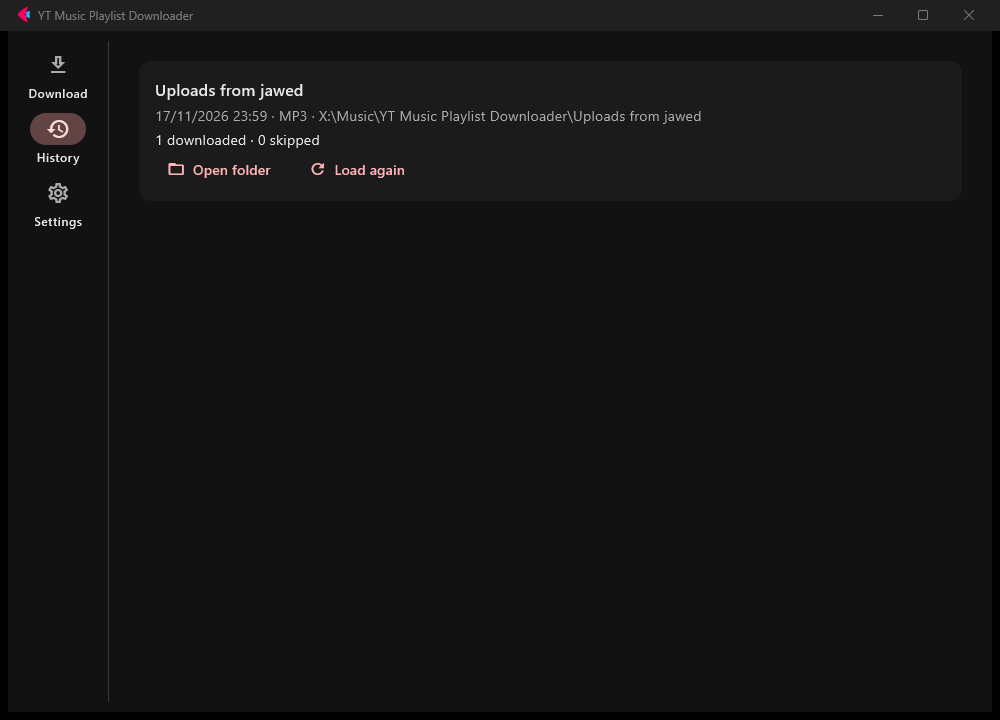
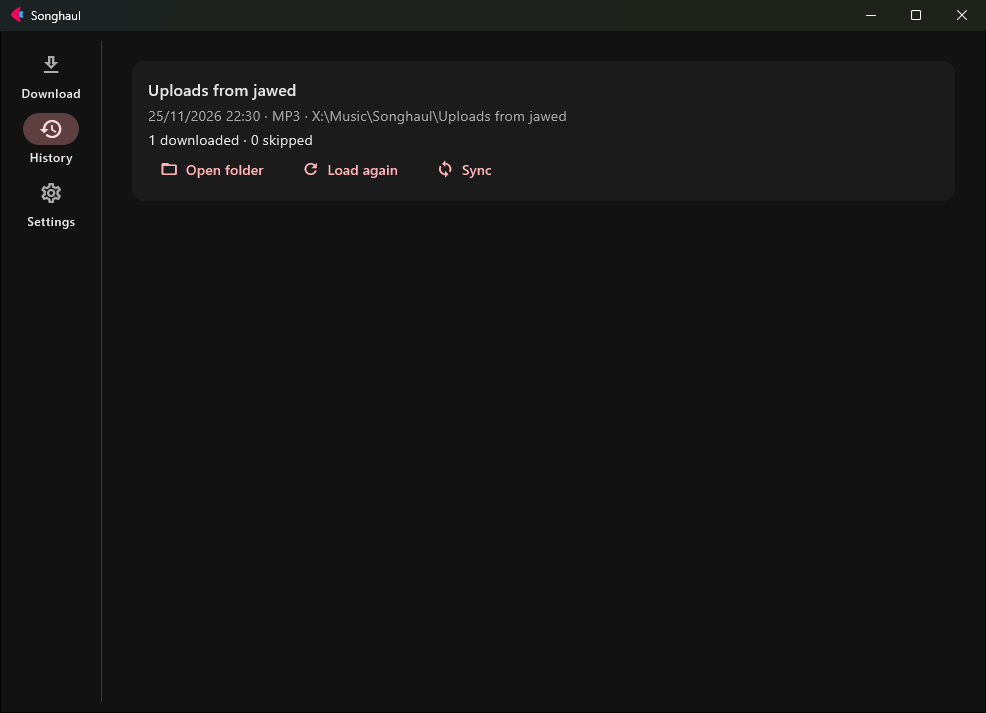
docs: redo the screenshots with the new name

diff --git a/docs/ROADMAP.md b/docs/ROADMAP.md
@@ -1,6 +1,6 @@
 # Roadmap: from YouTube to several platforms
 
-Status: **approved for phase 0** (25 November 2026). Phase 0A is in progress; phases 2 and 3 depend on
+Status: **phase 0A done** (25 November 2026), phase 0B next. Phases 2 and 3 depend on
 [decision D2](#decisions).
 
 Goal: start from a link to a song or a playlist on YouTube, SoundCloud or Spotify and get audio files with consistent
@@ -14,7 +14,7 @@ Spotify, searched on a supported source.
 
 | Phase | Result | Version |
 |---|---|---|
-| [0A. Rename](#phase-0a--rename) 🚧 | New name everywhere, existing updates and history safe | 0.6.0 |
+| [0A. Rename](#phase-0a--rename) ✅ | New name everywhere, existing updates and history safe | 0.6.0 |
 | [0B. Common interface](#phase-0b--common-interface) | Separate sources, YouTube exactly as before | 0.6.1 |
 | [1. SoundCloud](#phase-1--soundcloud) | Tracks and sets, with titles; previews and DRM recognised | 0.7.0 |
 | [2. Spotify, tracks](#phase-2--spotify-single-tracks) | A Spotify link becomes the right song, or an honest "not found" | 0.8.0 |
@@ -310,7 +310,7 @@ downloader), anything starting with "Spot".
 | README, README.it | Title, URLs, file names, folders, imports, layout |
 | `ROADMAP.md` (root) | A note at the top: it's history |
 | `DEVLOG.md` | Not rewritten: a new entry |
-| `docs/screenshots/` | 10 PNGs show the old name: to be redone |
+| `docs/screenshots/` | 10 PNGs, redone with the new name |
 
 **Kept on purpose**
 

diff --git a/DEVLOG.md b/DEVLOG.md
@@ -11,7 +11,13 @@
   files once, with `settings.json` last as the mark. Without the mark, a `cookies.txt` removed in Settings would come
   back at the next start. `paths.py` doesn't import Flet, which the test job on GitHub doesn't install.
 - Checked on the emulator: the new APK over 0.3.0 (same debug key) kept one app, its history and the old Music folder;
-  Sync said there was nothing new.
+  Sync said there was nothing new. On Windows, with data laid out as 0.5.0 leaves it, Sync said the same.
+- A manual run of `release.yml` built all four platforms; its APK has the id and certificate of the published 0.5.0 and
+  a higher versionCode. The update check of 0.5.0 follows GitHub's redirect from the old repository name.
+- After renaming the project, the local CMake cache in `build/flutter/build/windows` still names the old target and the
+  Windows build fails: delete that folder once. GitHub builds from scratch and isn't affected.
+- yt-dlp 2026.10.26 can't solve YouTube's current JavaScript challenge (it warns and goes on with the formats left);
+  2026.11.23 can, so the minimum goes up with this release.
 - Building the APK while the emulator runs can use up Windows' virtual memory: the Gradle daemon died with 140 MB left.
   `GRADLE_OPTS=-Dorg.gradle.jvmargs=-Xmx2g` is enough for this app (Flet's template asks for 8 GB).
 

diff --git a/README.it.md b/README.it.md
@@ -81,7 +81,7 @@ Per ogni brano il terminale mostra il titolo, poi percentuale, velocità e tempo
 
 | | |
 |---|---|
-| <img src="docs/screenshots/it/download.png" alt="Schermata Scarica: il link della playlist, un brano con la spunta verde, formato MP3 a 192 kbps e la cartella di destinazione" width="420"> | <img src="docs/screenshots/it/history.png" alt="Schermata Cronologia: una playlist con data, formato, cartella e i pulsanti Apri cartella e Ricarica" width="420"> |
+| <img src="docs/screenshots/it/download.png" alt="Schermata Scarica: il link della playlist, un brano con la spunta verde, formato MP3 a 192 kbps e la cartella di destinazione" width="420"> | <img src="docs/screenshots/it/history.png" alt="Schermata Cronologia: una playlist con data, formato, cartella e i pulsanti Apri cartella, Ricarica e Sincronizza" width="420"> |
 | *Scarica: i brani, cosa è fatto e dove finisce* | *Cronologia: ogni download, con cosa è stato saltato e perché* |
 | <img src="docs/screenshots/it/settings.png" alt="Schermata Impostazioni: cookie del browser, lingua, tema e le versioni di yt-dlp, FFmpeg e del runtime JavaScript" width="420"> | |
 | *Impostazioni: cookie, lingua, tema, e cosa l'app ha trovato sul computer* | |

diff --git a/README.md b/README.md
@@ -82,7 +82,7 @@ messages are in Italian.
 
 | | |
 |---|---|
-| <img src="docs/screenshots/en/download.png" alt="Download screen: the playlist link, one track with a green check mark, format MP3 at 192 kbps and the destination folder" width="420"> | <img src="docs/screenshots/en/history.png" alt="History screen: one playlist with date, format, folder and the buttons Open folder and Load again" width="420"> |
+| <img src="docs/screenshots/en/download.png" alt="Download screen: the playlist link, one track with a green check mark, format MP3 at 192 kbps and the destination folder" width="420"> | <img src="docs/screenshots/en/history.png" alt="History screen: one playlist with date, format, folder and the buttons Open folder, Load again and Sync" width="420"> |
 | *Download: the tracks, what's done and where it goes* | *History: every download, with what was skipped and why* |
 | <img src="docs/screenshots/en/settings.png" alt="Settings screen: browser cookies, language, theme and the versions of yt-dlp, FFmpeg and the JavaScript runtime" width="420"> | |
 | *Settings: cookies, language, theme, and what the app found on the computer* | |
